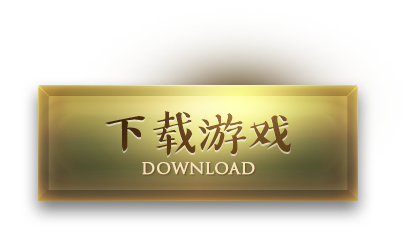
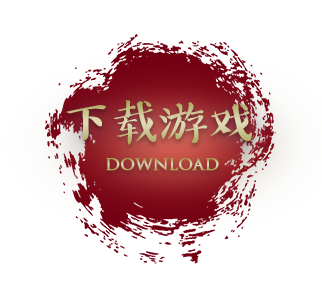
asd

diff --git a/public/assets/css/style.css b/public/assets/css/style.css
@@ -79,10 +79,6 @@ body {
     filter: drop-shadow(-2px -4px 17px black);
 }
 
-.download-btn {
-    margin-top: -70px;
-}
-
 .render::after {
     content: '';
     position: absolute;
@@ -241,6 +237,9 @@ body {
     background-position-y: center;
     background-repeat: no-repeat;
     position: relative;
+    height: 693px;
+    display: flex;
+    align-items: center;
 }
 
 .ranking::after {
@@ -375,5 +374,65 @@ body {
     color: #a45f5f;
 }
 
+.download-btn {
+    z-index: 10;
+}
 
+.ch-zone {
+    /*background: url(/assets/images/koa-ch.png);*/
+    /*background-position: center;*/
+    /*background-repeat: no-repeat;*/
+    width: 454px;
+    height: 414px;
+    display: flex;
+    align-items: center;
+    justify-content: center;
+    position: relative;
+}
+
+.ch-bg {
+    position: absolute;
+    animation: rotation 10s infinite linear;
+}
+
+.ch-1 {
+    position: absolute;
+    left: 15px;
+}
+
+.ch-2 {
+    position: absolute;
+    bottom: 45px;
+    left: 65px;
+}
+
+.ch-3 {
+    position: absolute;
+    left: 65px;
+    top: 45px;
+}
+
+.ch-4 {
+    position: absolute;
+    right: 10px;
+}
+.ch-5 {
+    position: absolute;
+    bottom: 45px;
+    right: 65px;
+}
+.ch-6 {
+    position: absolute;
+    top: 45px;
+    right: 65px;
+}
+
+@keyframes rotation {
+    from {
+        transform: rotate(0deg);
+    }
+    to {
+        transform: rotate(359deg);
+    }
+}
 

diff --git a/resources/views/layouts/app.blade.php b/resources/views/layouts/app.blade.php
@@ -93,16 +93,25 @@
 </nav>
 <header class="render">
     <div class="container">
-        <div class="header row mt-5">
+        <div class="header row">
             <div class="col-md-6 d-flex justify-content-center">
                 <div class="d-flex flex-column text-center">
-                    <h1 class="welcome">WELCOME</h1>
-                    <h1 class="adventurer">ADVENTURER</h1>
-                    <p class="mt-5" style="color: #e3dea0;">Join your adventure, select one of four unique classes. Choose between three old<br>kingdoms:<br>Jinno - Kingdom of the Old Black OX, Shinsoo - Kingdom of the Red Serpent<br>and Chunjo - Kingdom of the Old Golden Fire Serpent.</p>
-                    <p style="color: #e3dea0;">Fight for your freedom, your adventures awaits for you now.</p>
-                    <a href="#">
-                        <img class="download-btn" src="/assets/images/koa-download-btn.png" alt="Download">
-                    </a>
+{{--                    <h1 class="welcome">WELCOME</h1>--}}
+{{--                    <h1 class="adventurer">ADVENTURER</h1>--}}
+{{--                    <p class="mt-5" style="color: #e3dea0;">Join your adventure, select one of four unique classes. Choose between three old<br>kingdoms:<br>Jinno - Kingdom of the Old Black OX, Shinsoo - Kingdom of the Red Serpent<br>and Chunjo - Kingdom of the Old Golden Fire Serpent.</p>--}}
+{{--                    <p style="color: #e3dea0;">Fight for your freedom, your adventures awaits for you now.</p>--}}
+                    <div class="ch-zone mb-3">
+                        <a class="download-btn" href="#">
+                            <img src="/assets/images/koa-download-btn.png" alt="Download">
+                        </a>
+                        <img class="ch-bg" src="/assets/images/koa-ch.png">
+                        <img class="ch-1" src="/assets/images/koa-ch-section.png">
+                        <img class="ch-2" src="/assets/images/koa-ch-section.png">
+                        <img class="ch-3" src="/assets/images/koa-ch-section.png">
+                        <img class="ch-4" src="/assets/images/koa-ch-section.png">
+                        <img class="ch-5" src="/assets/images/koa-ch-section.png">
+                        <img class="ch-6" src="/assets/images/koa-ch-section.png">
+                    </div>
                     <p class="m-0" style="color: #e3dea0;">Not Registered yet?</p>
                     <a type="button" class="m-0 text-white text-decoration-none" data-bs-toggle="modal" data-bs-target="#registerModal">Create a new Account</a>
                 </div>
